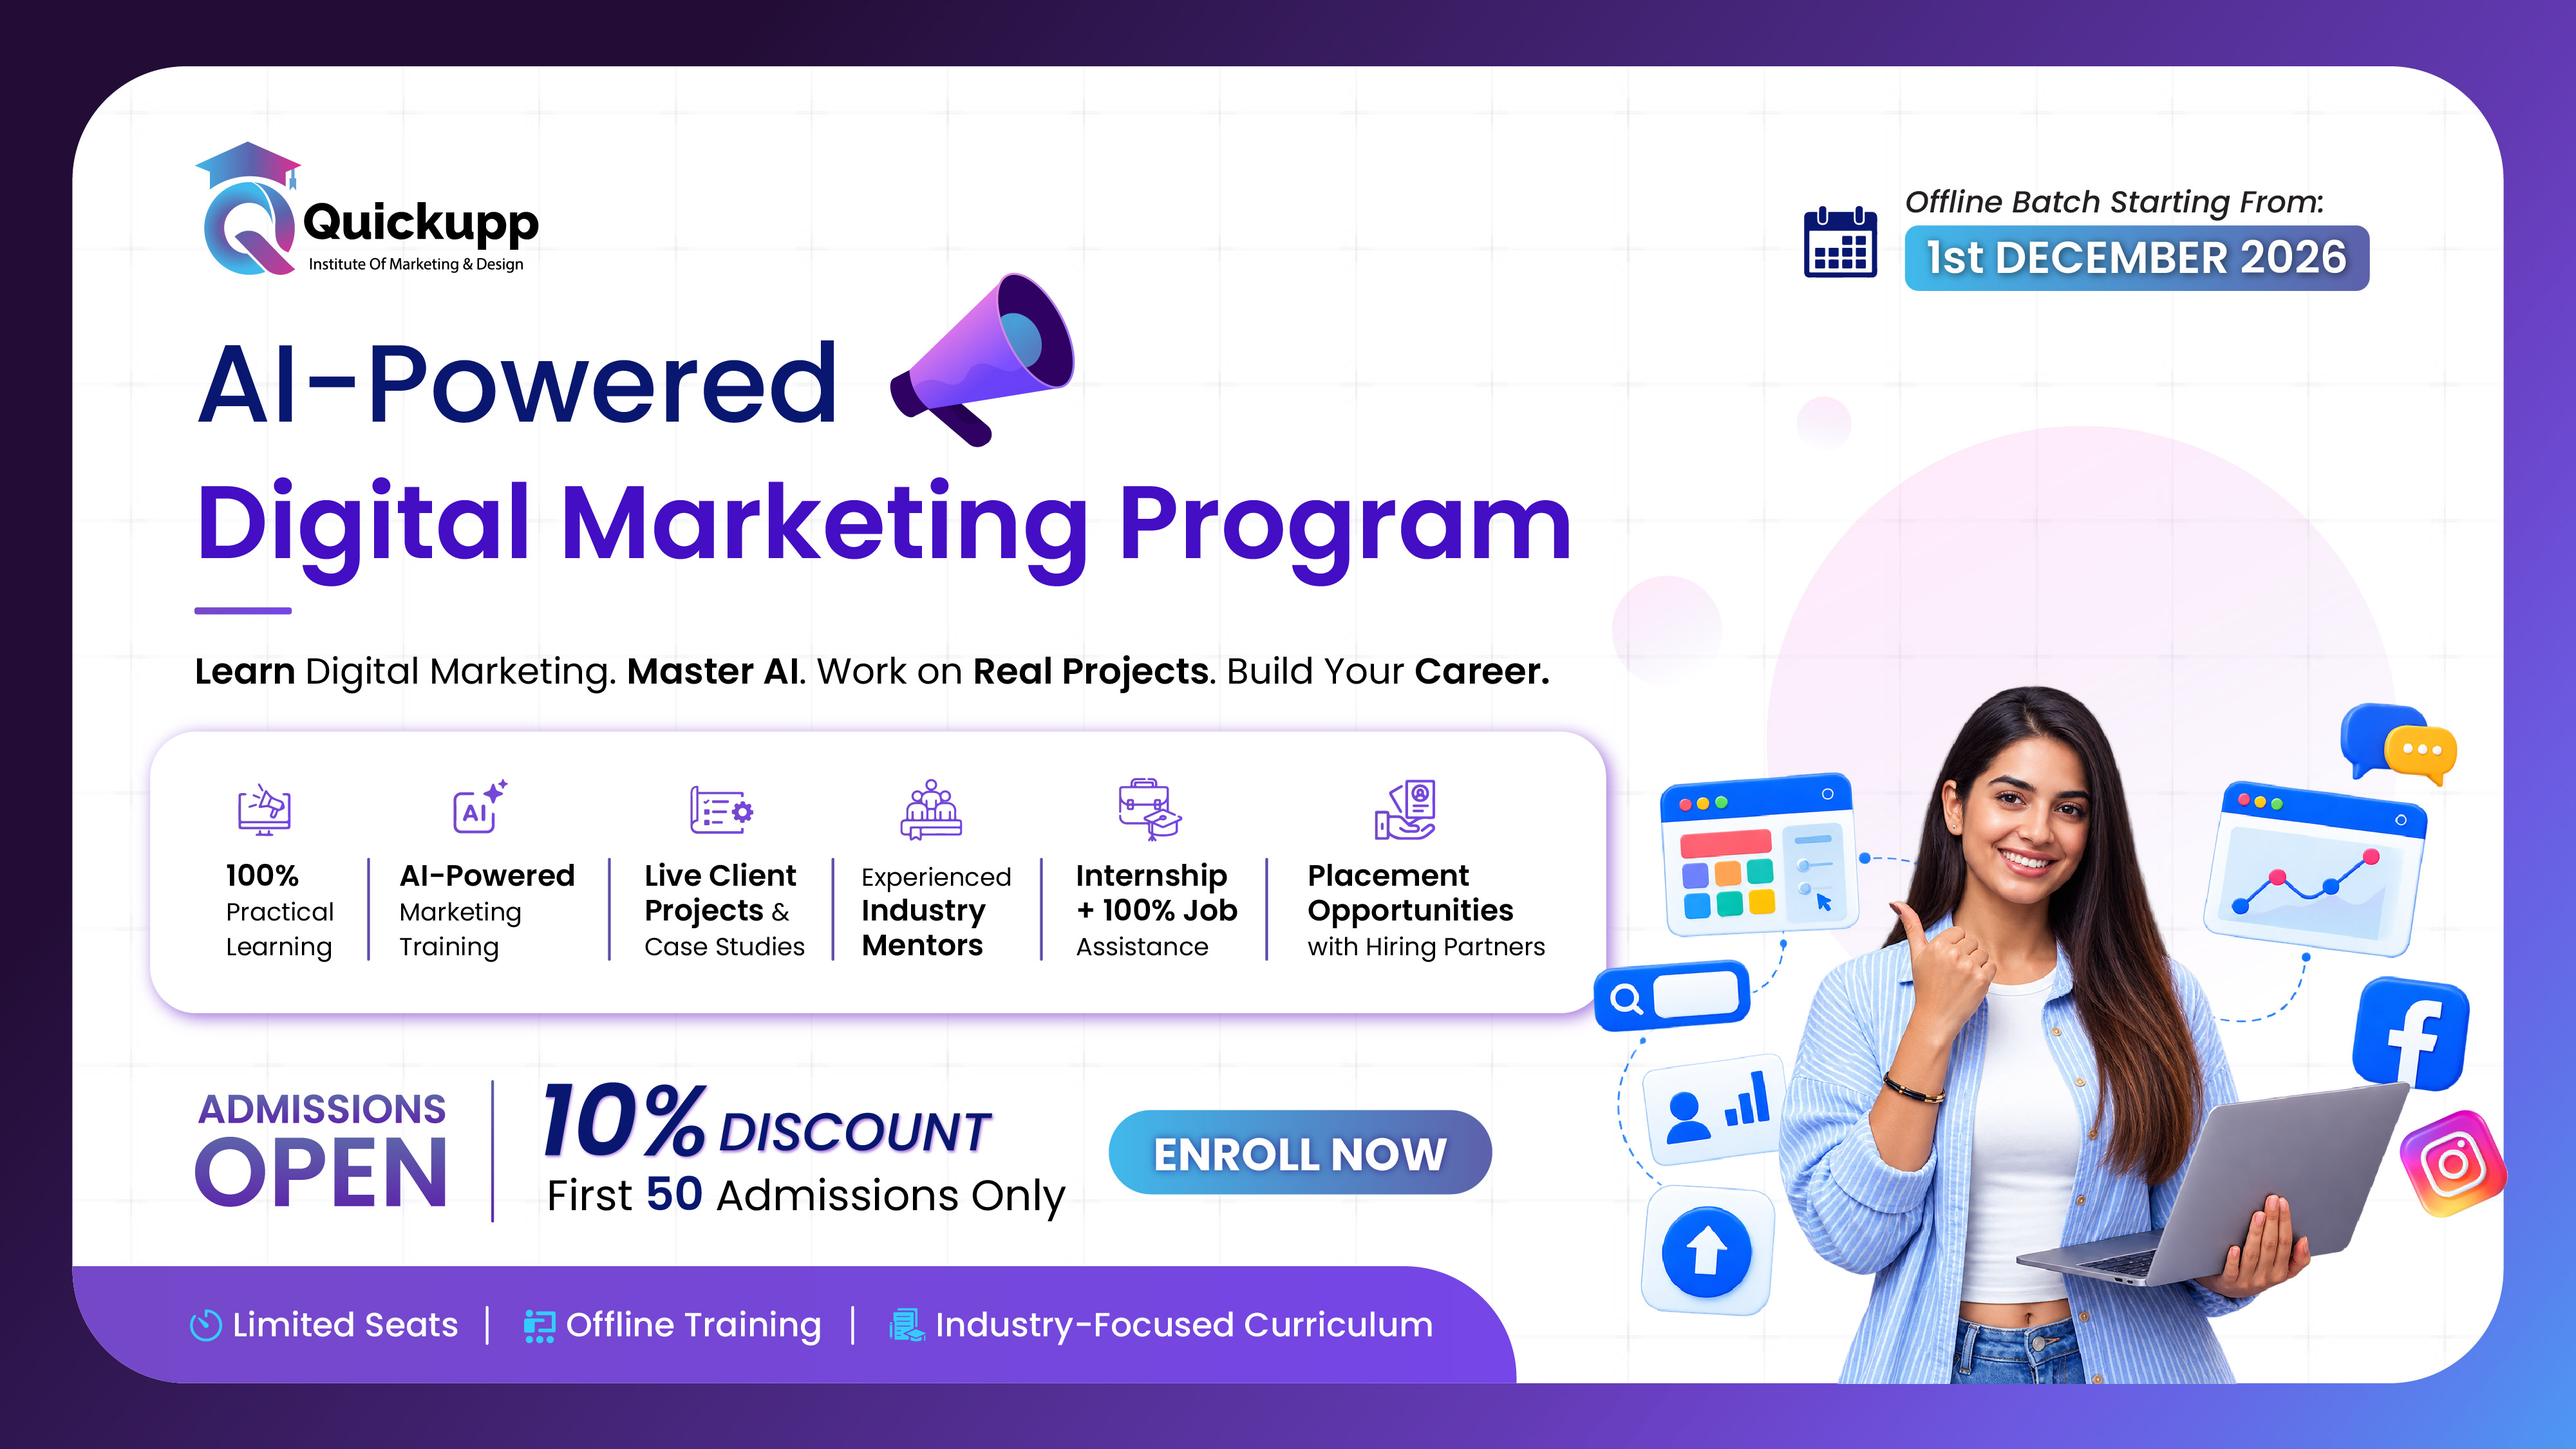
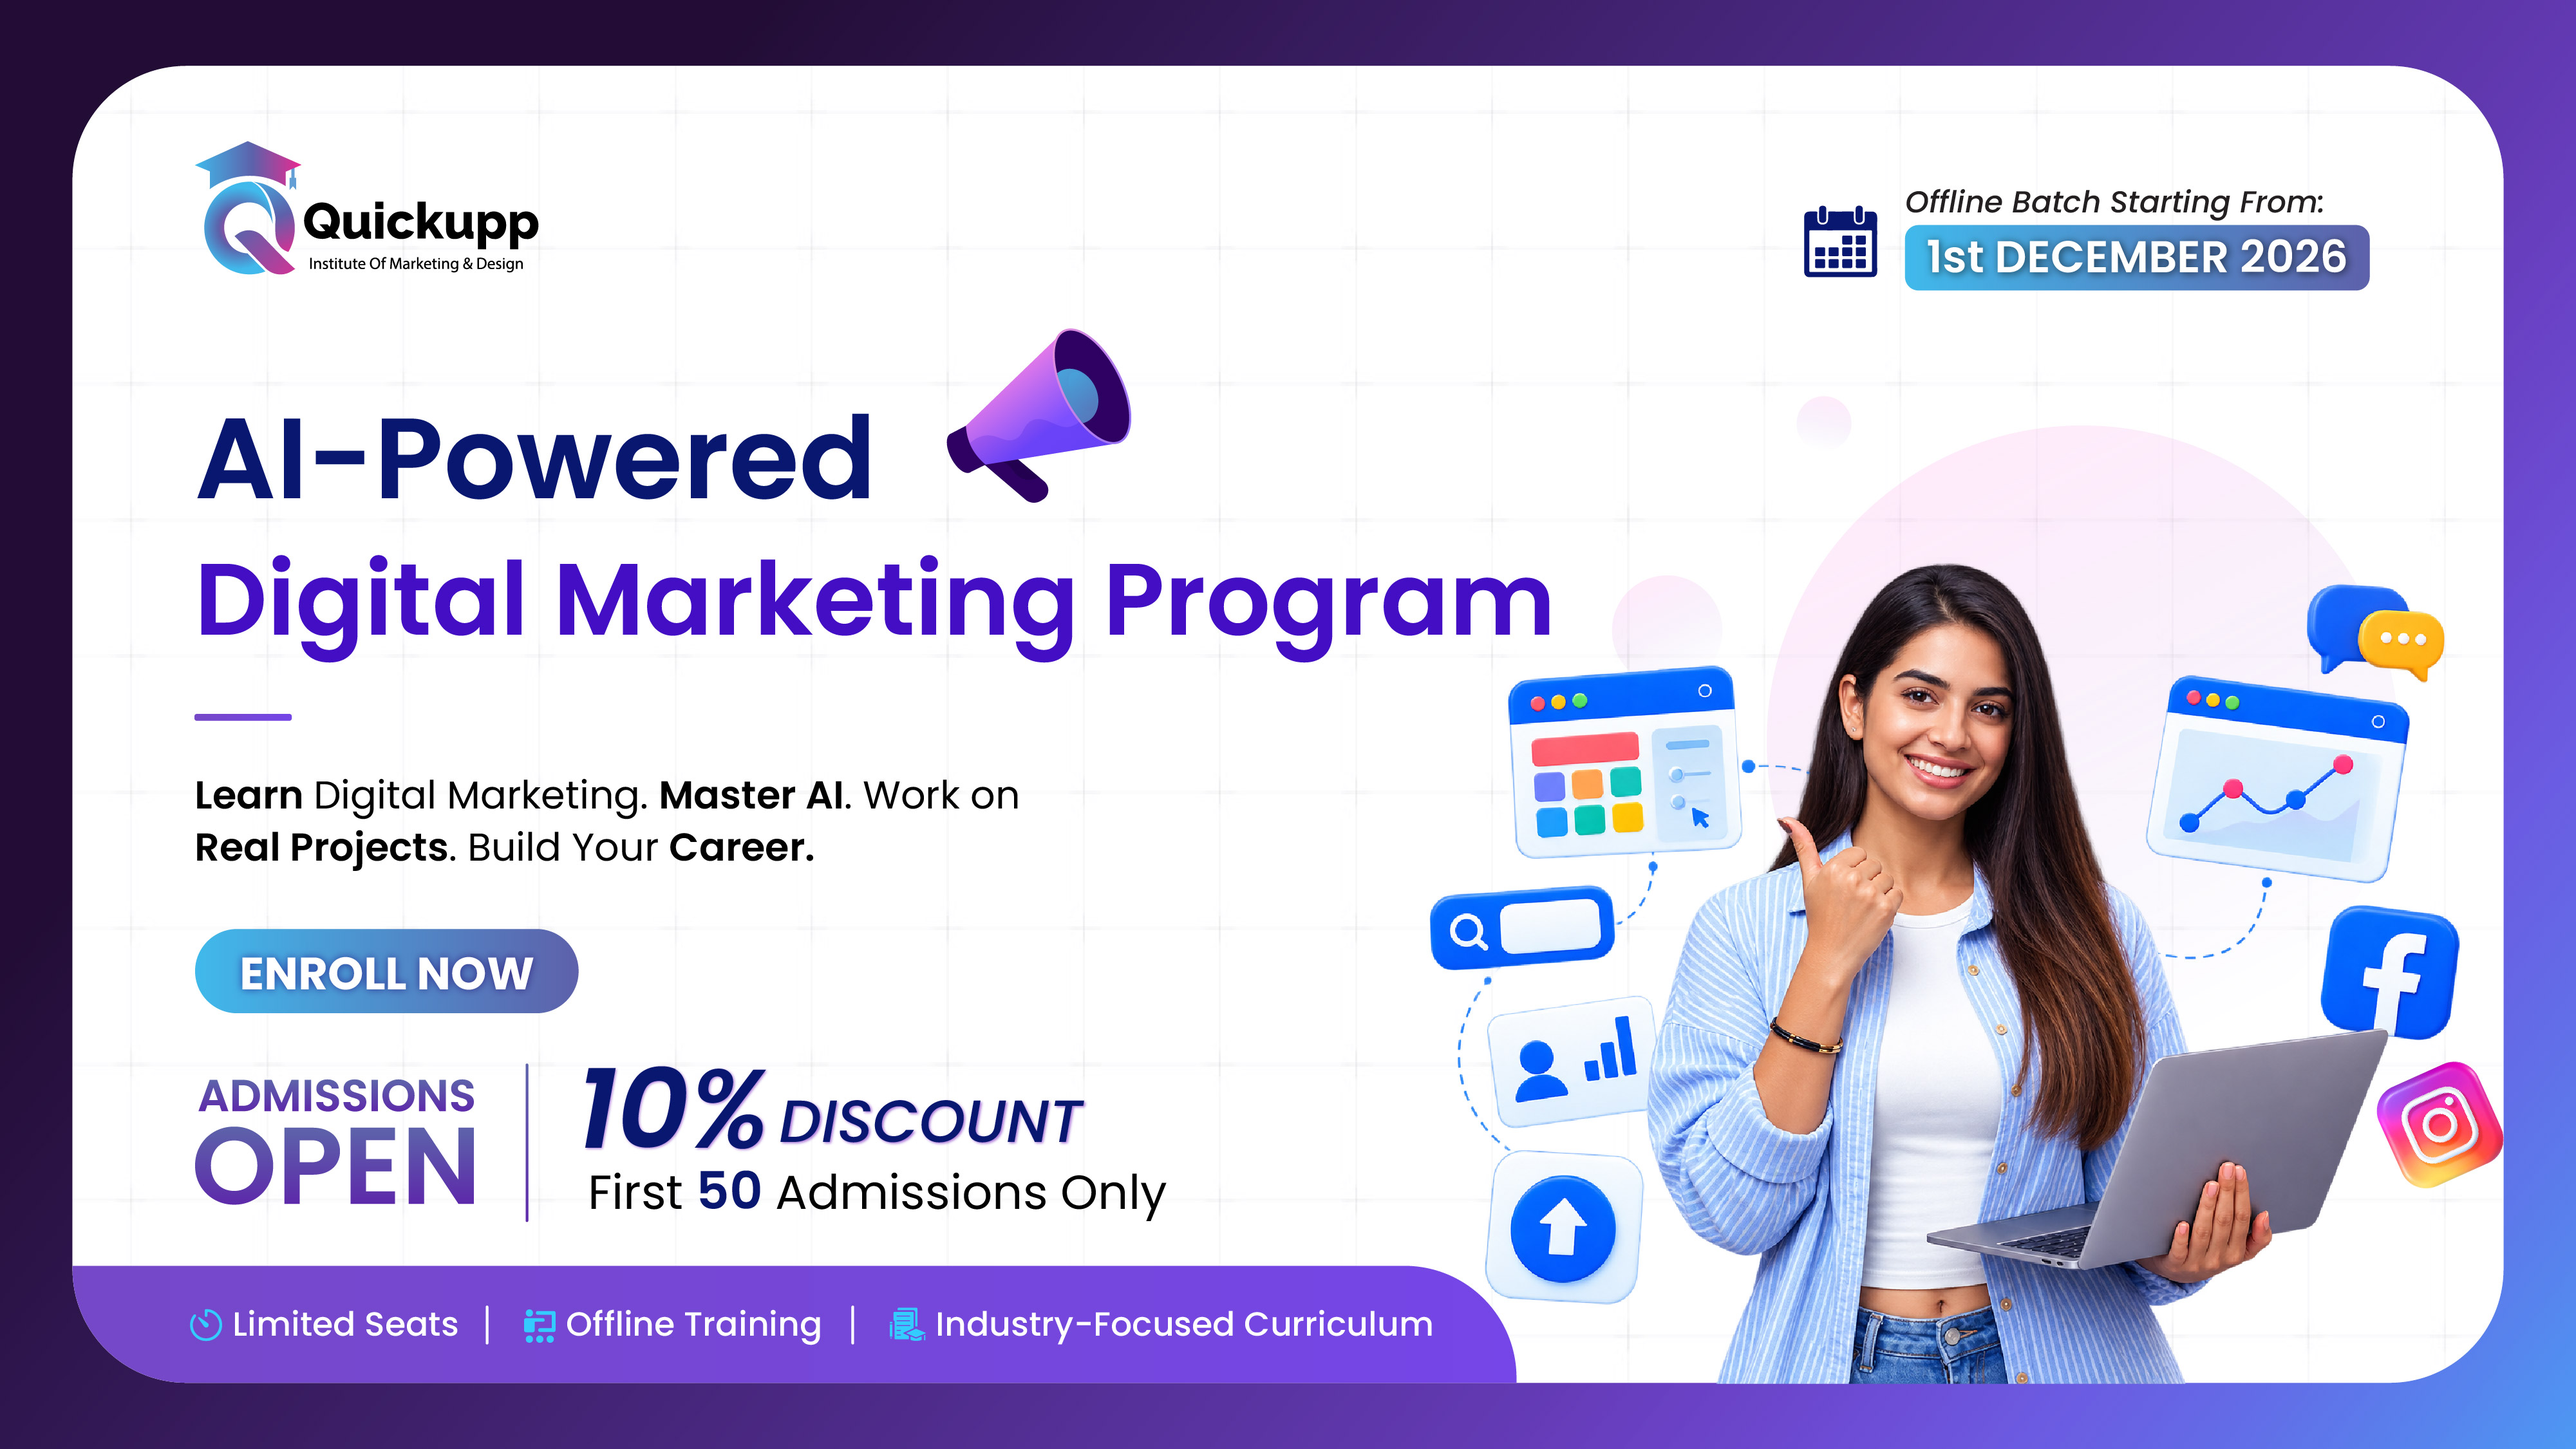
Blogs Update

Changed region(s): [[0.0625, 0.1866, 0.9998, 0.964]]

diff --git a/src/app/api/public/banners/route.ts b/src/app/api/public/banners/route.ts
@@ -1,6 +1,9 @@
 import { NextResponse } from 'next/server'
 import { db } from '@/lib/db'
 
+export const dynamic = 'force-dynamic'
+export const revalidate = 0
+
 export async function GET() {
   try {
     const banners = await db.banner.findMany({
@@ -8,7 +11,14 @@ export async function GET() {
       orderBy: { displayOrder: 'asc' },
     })
 
-    return NextResponse.json({ banners })
+    return NextResponse.json(
+      { banners },
+      {
+        headers: {
+          'Cache-Control': 'no-store, no-cache, must-revalidate, proxy-revalidate',
+        },
+      }
+    )
   } catch (err: any) {
     return NextResponse.json({ error: err.message }, { status: 500 })
   }
